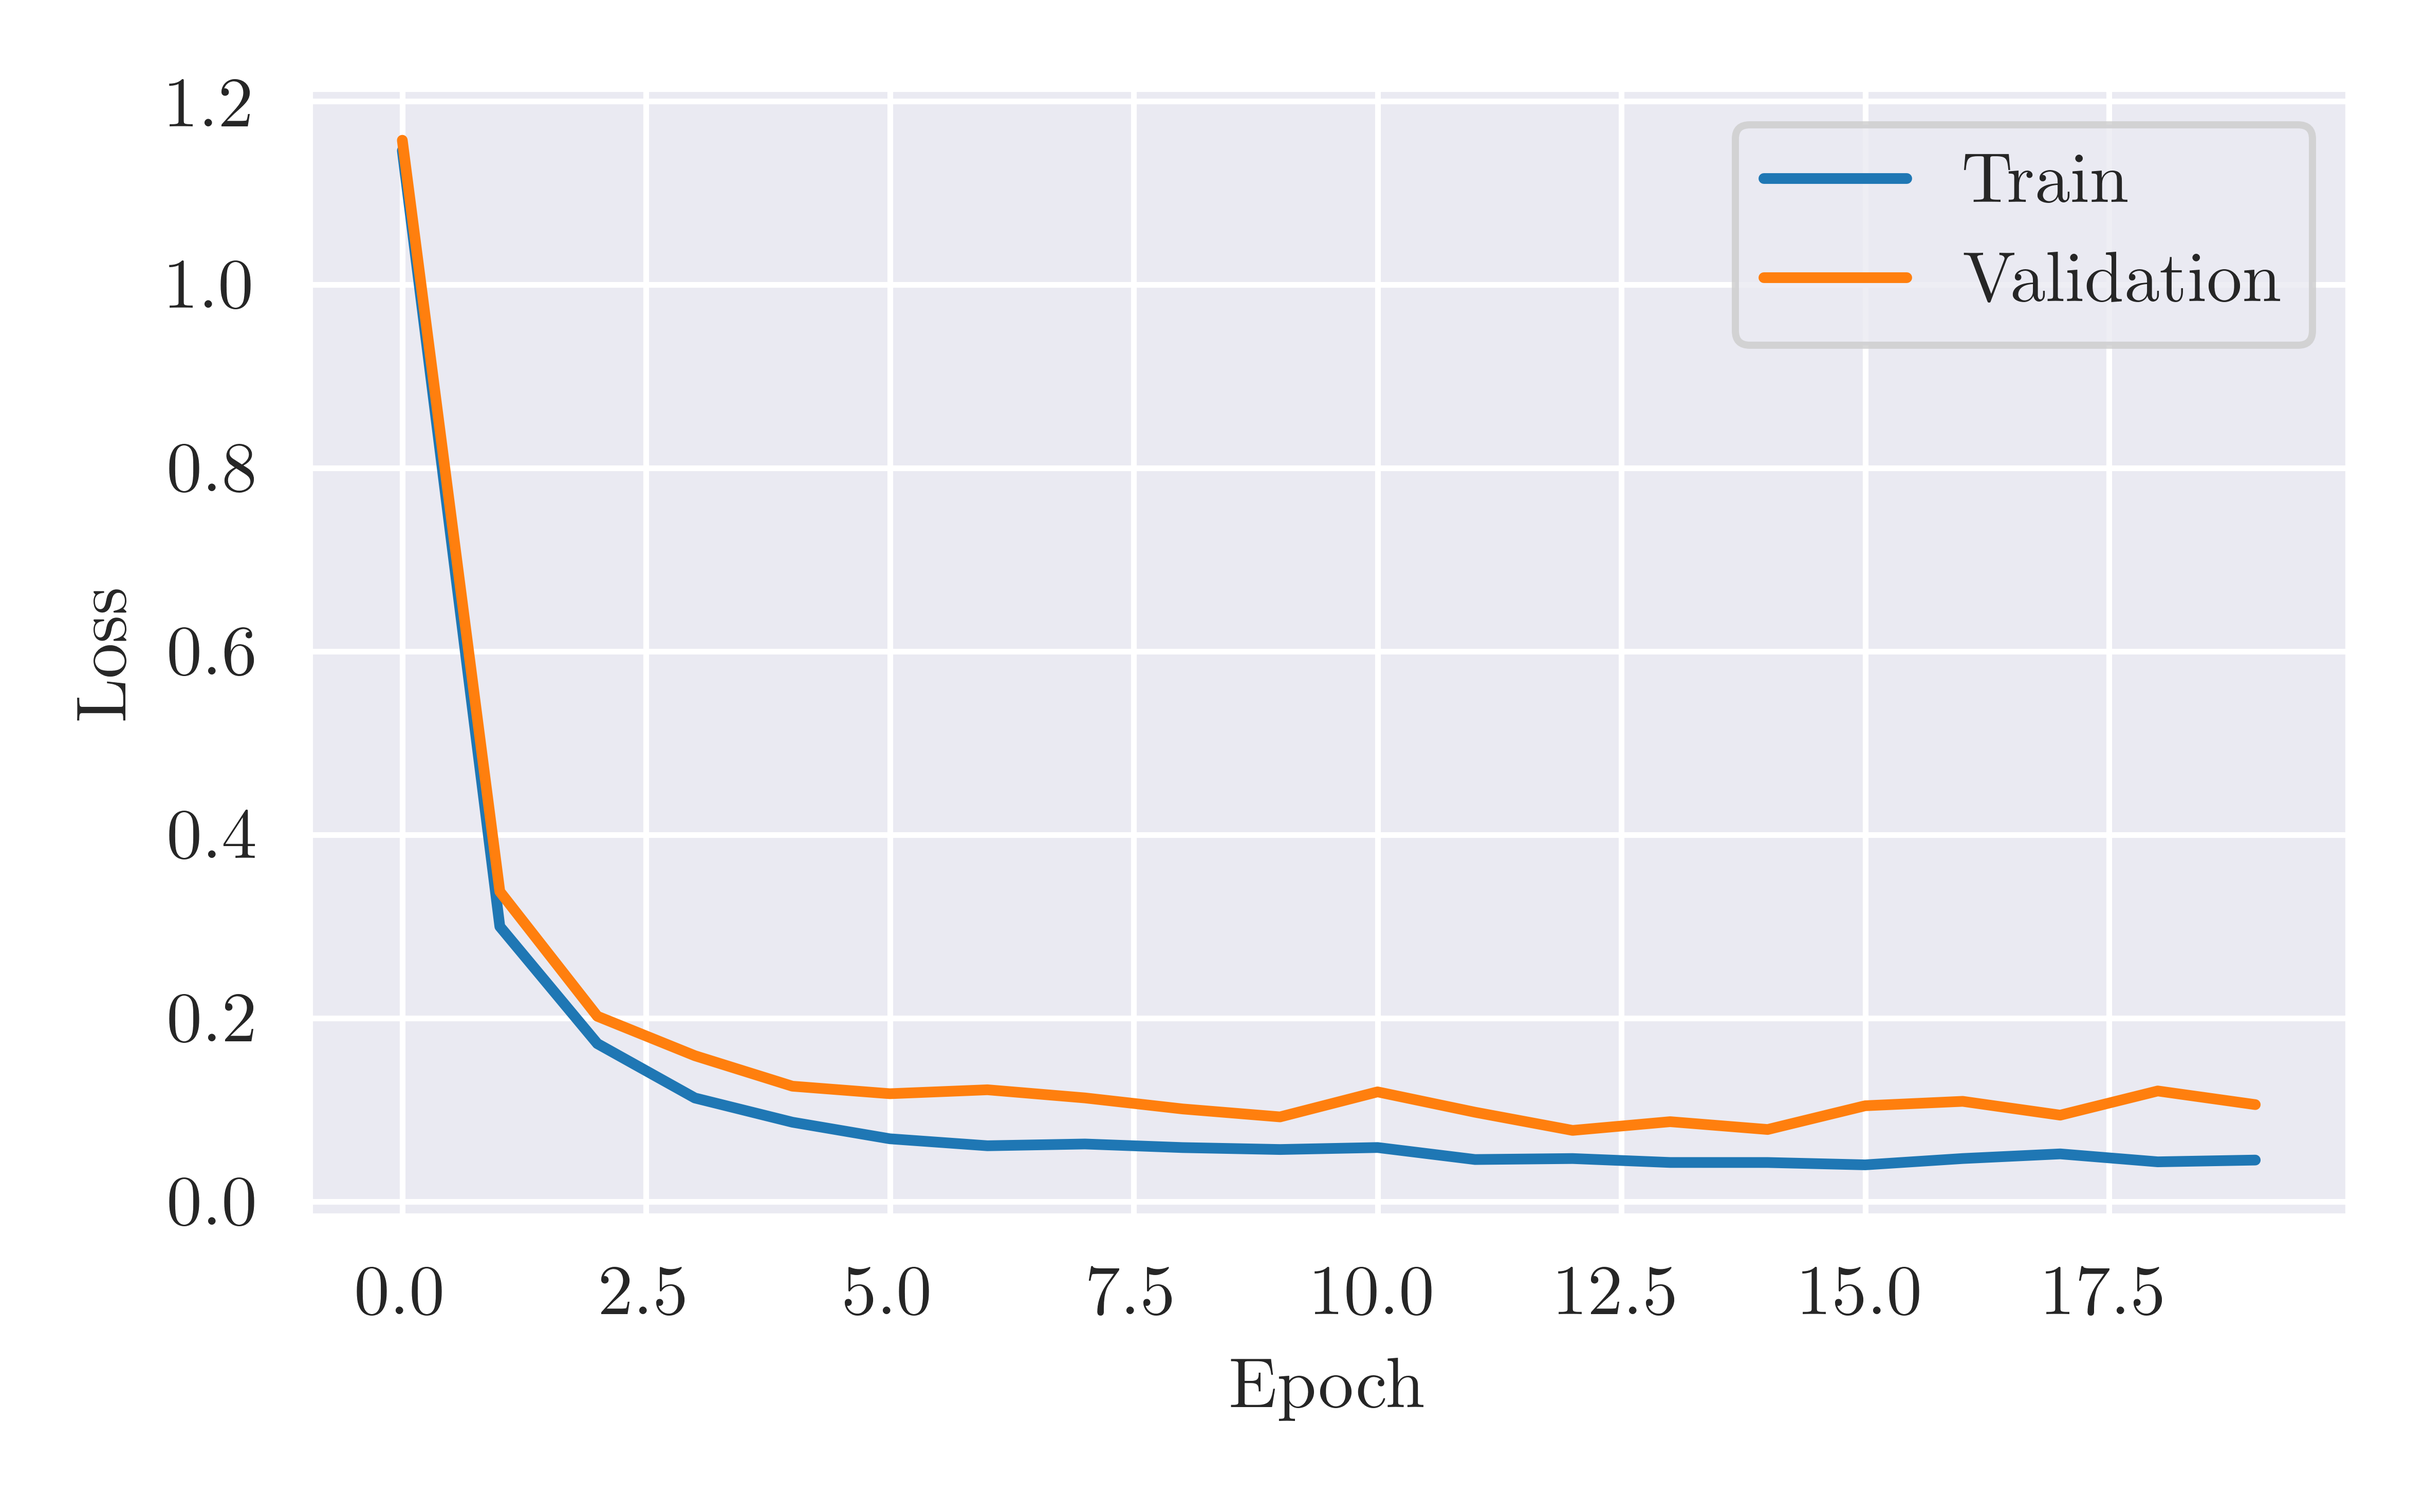
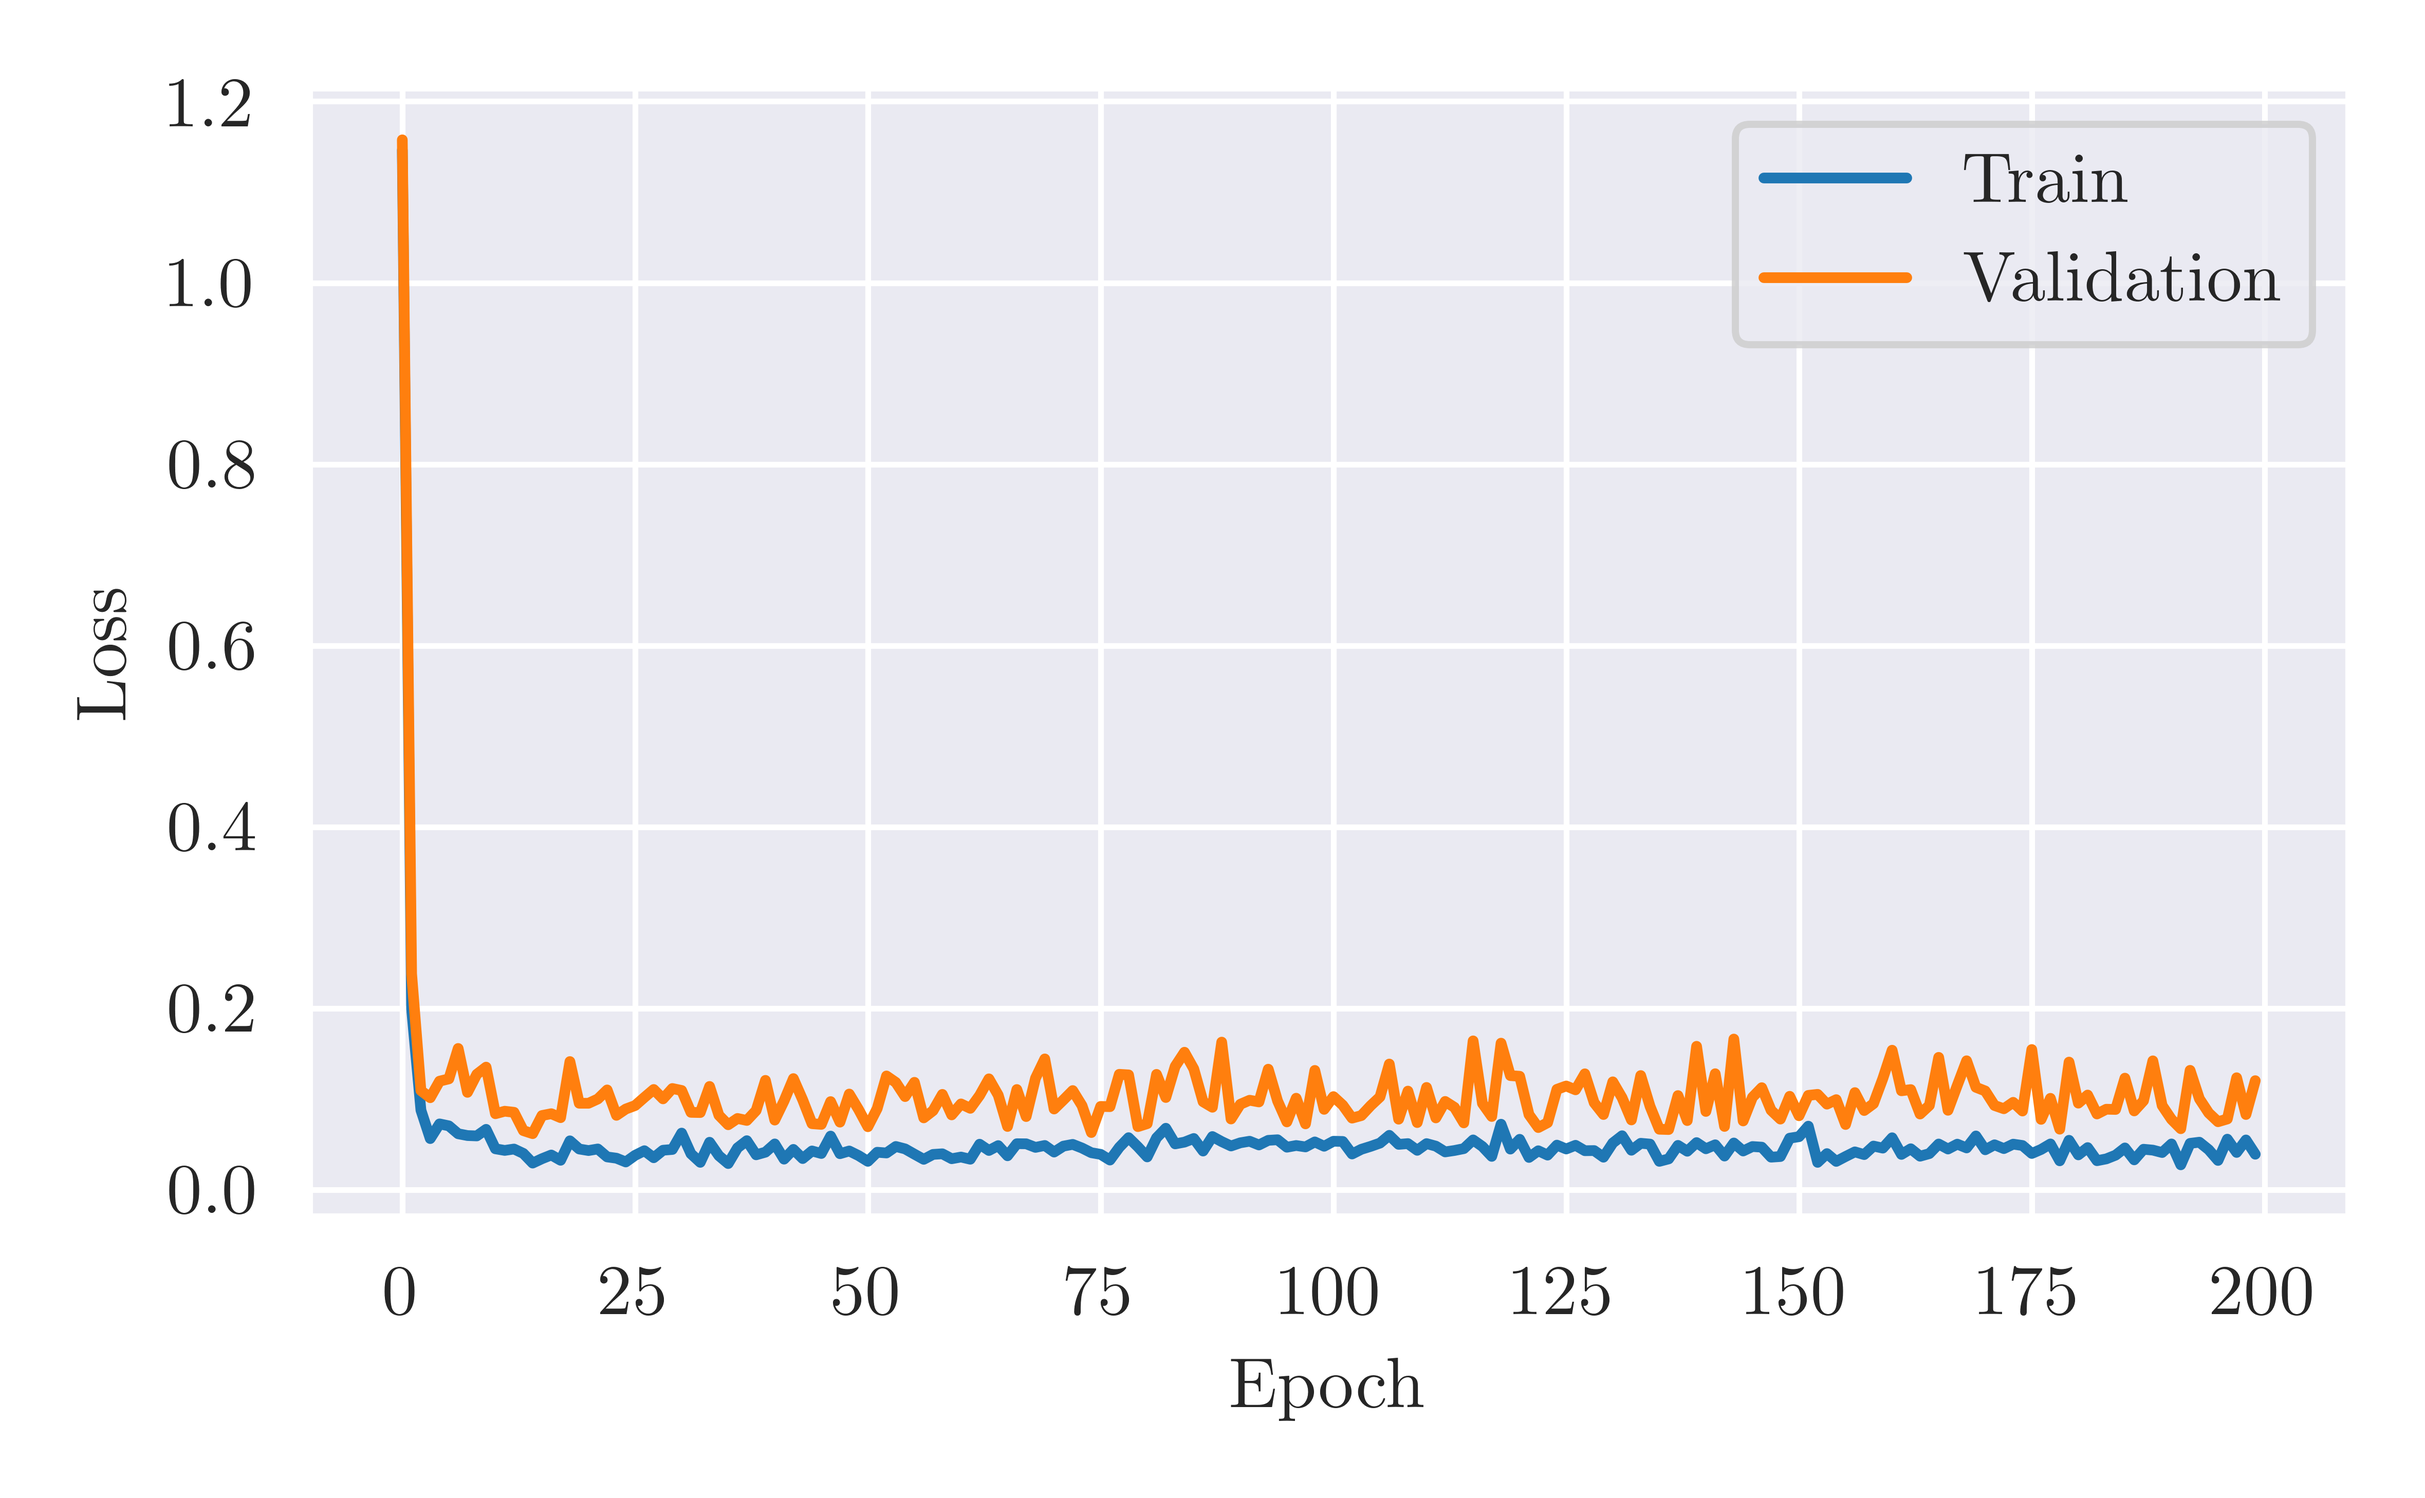
..

diff --git a/src/quantum_mnist.py b/src/quantum_mnist.py
@@ -123,7 +123,7 @@ def quantum_mnist(initial_H, ansatz, n_epochs, lr, optim_method, m1=0.7, m2=0.99
         best_params=None
         test_data=[X_test, y_test]
         #best_params=gridsearch_params(data_mnist, 10)
-        train_rbm(data_mnist, best_params, plot_acc_vs_epoch=150, name='mnist')
+        train_rbm(data_mnist, best_params, plot_acc_vs_epoch=200, name='mnist')
         #rbm_plot_scores(data_mnist, name='digit2')
 
     """

diff --git a/src/BM.py b/src/BM.py
@@ -66,11 +66,11 @@ def train_rbm(dataset, best_params=None, plot_acc_vs_epoch=0, name=''):
     else:
         #pass
         #Set best values
-        rbm.learning_rate = 0.05
+        rbm.learning_rate = 0.1
         #rbm.n_iter = 20
         #rbm.n_components = 30
         rbm.batch_size=2
-        logistic.C = 5.0
+        logistic.C = 5
 
     if plot_acc_vs_epoch==0:
         # Training RBM-Logistic Pipeline
